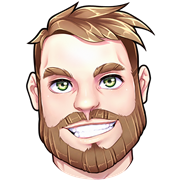
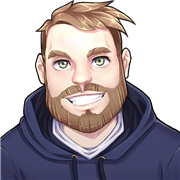
Keep hoodie in portrait branding

diff --git a/nuxt.config.ts b/nuxt.config.ts
@@ -7,10 +7,10 @@ export default defineNuxtConfig({
       title: 'D. Kiessling — Portfolio',
       meta: [{ name: 'description', content: 'The personal portfolio of D. Kiessling. Projects and more, coming soon.' }],
       link: [
-        { rel: 'icon', href: '/favicon.ico?v=1.3', sizes: '16x16 32x32' },
-        { rel: 'icon', type: 'image/png', href: '/favicon-32x32.png?v=1.3', sizes: '32x32' },
-        { rel: 'icon', type: 'image/png', href: '/favicon-16x16.png?v=1.3', sizes: '16x16' },
-        { rel: 'apple-touch-icon', href: '/apple-touch-icon.png?v=1.3', sizes: '180x180' }
+        { rel: 'icon', href: '/favicon.ico?v=1.4', sizes: '16x16 32x32' },
+        { rel: 'icon', type: 'image/png', href: '/favicon-32x32.png?v=1.4', sizes: '32x32' },
+        { rel: 'icon', type: 'image/png', href: '/favicon-16x16.png?v=1.4', sizes: '16x16' },
+        { rel: 'apple-touch-icon', href: '/apple-touch-icon.png?v=1.4', sizes: '180x180' }
       ]
     }
   },

diff --git a/app/app.vue b/app/app.vue
@@ -7,7 +7,7 @@
         aria-label="Portfolio home"
       >
         <img
-          src="/logo.png"
+          src="/logo.png?v=1.4"
           alt=""
           width="48"
           height="48"
